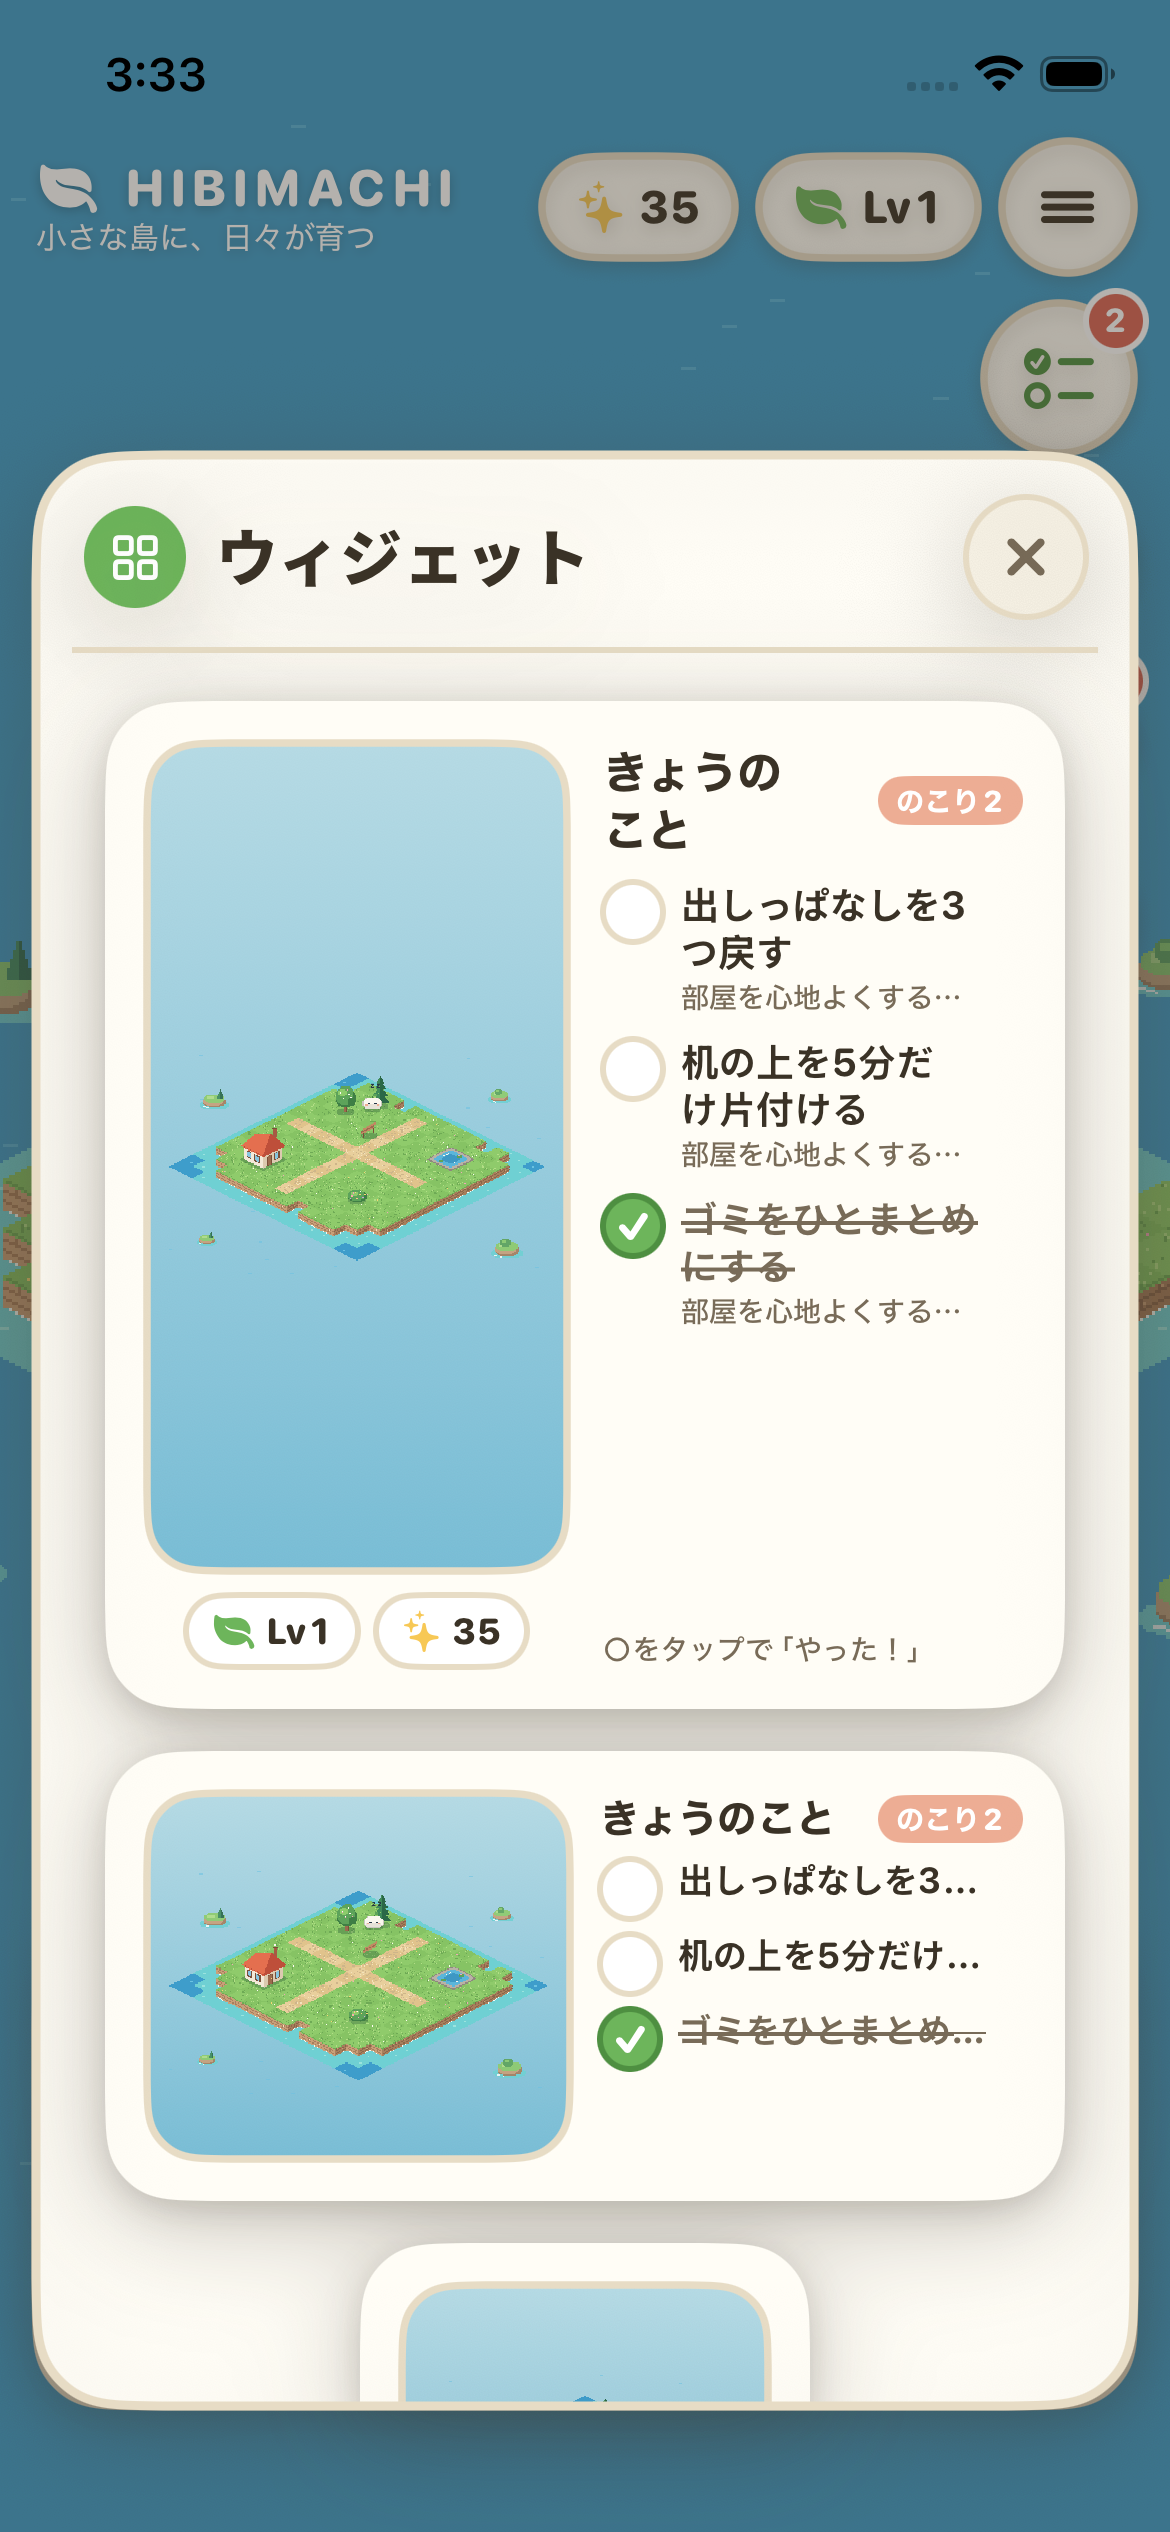
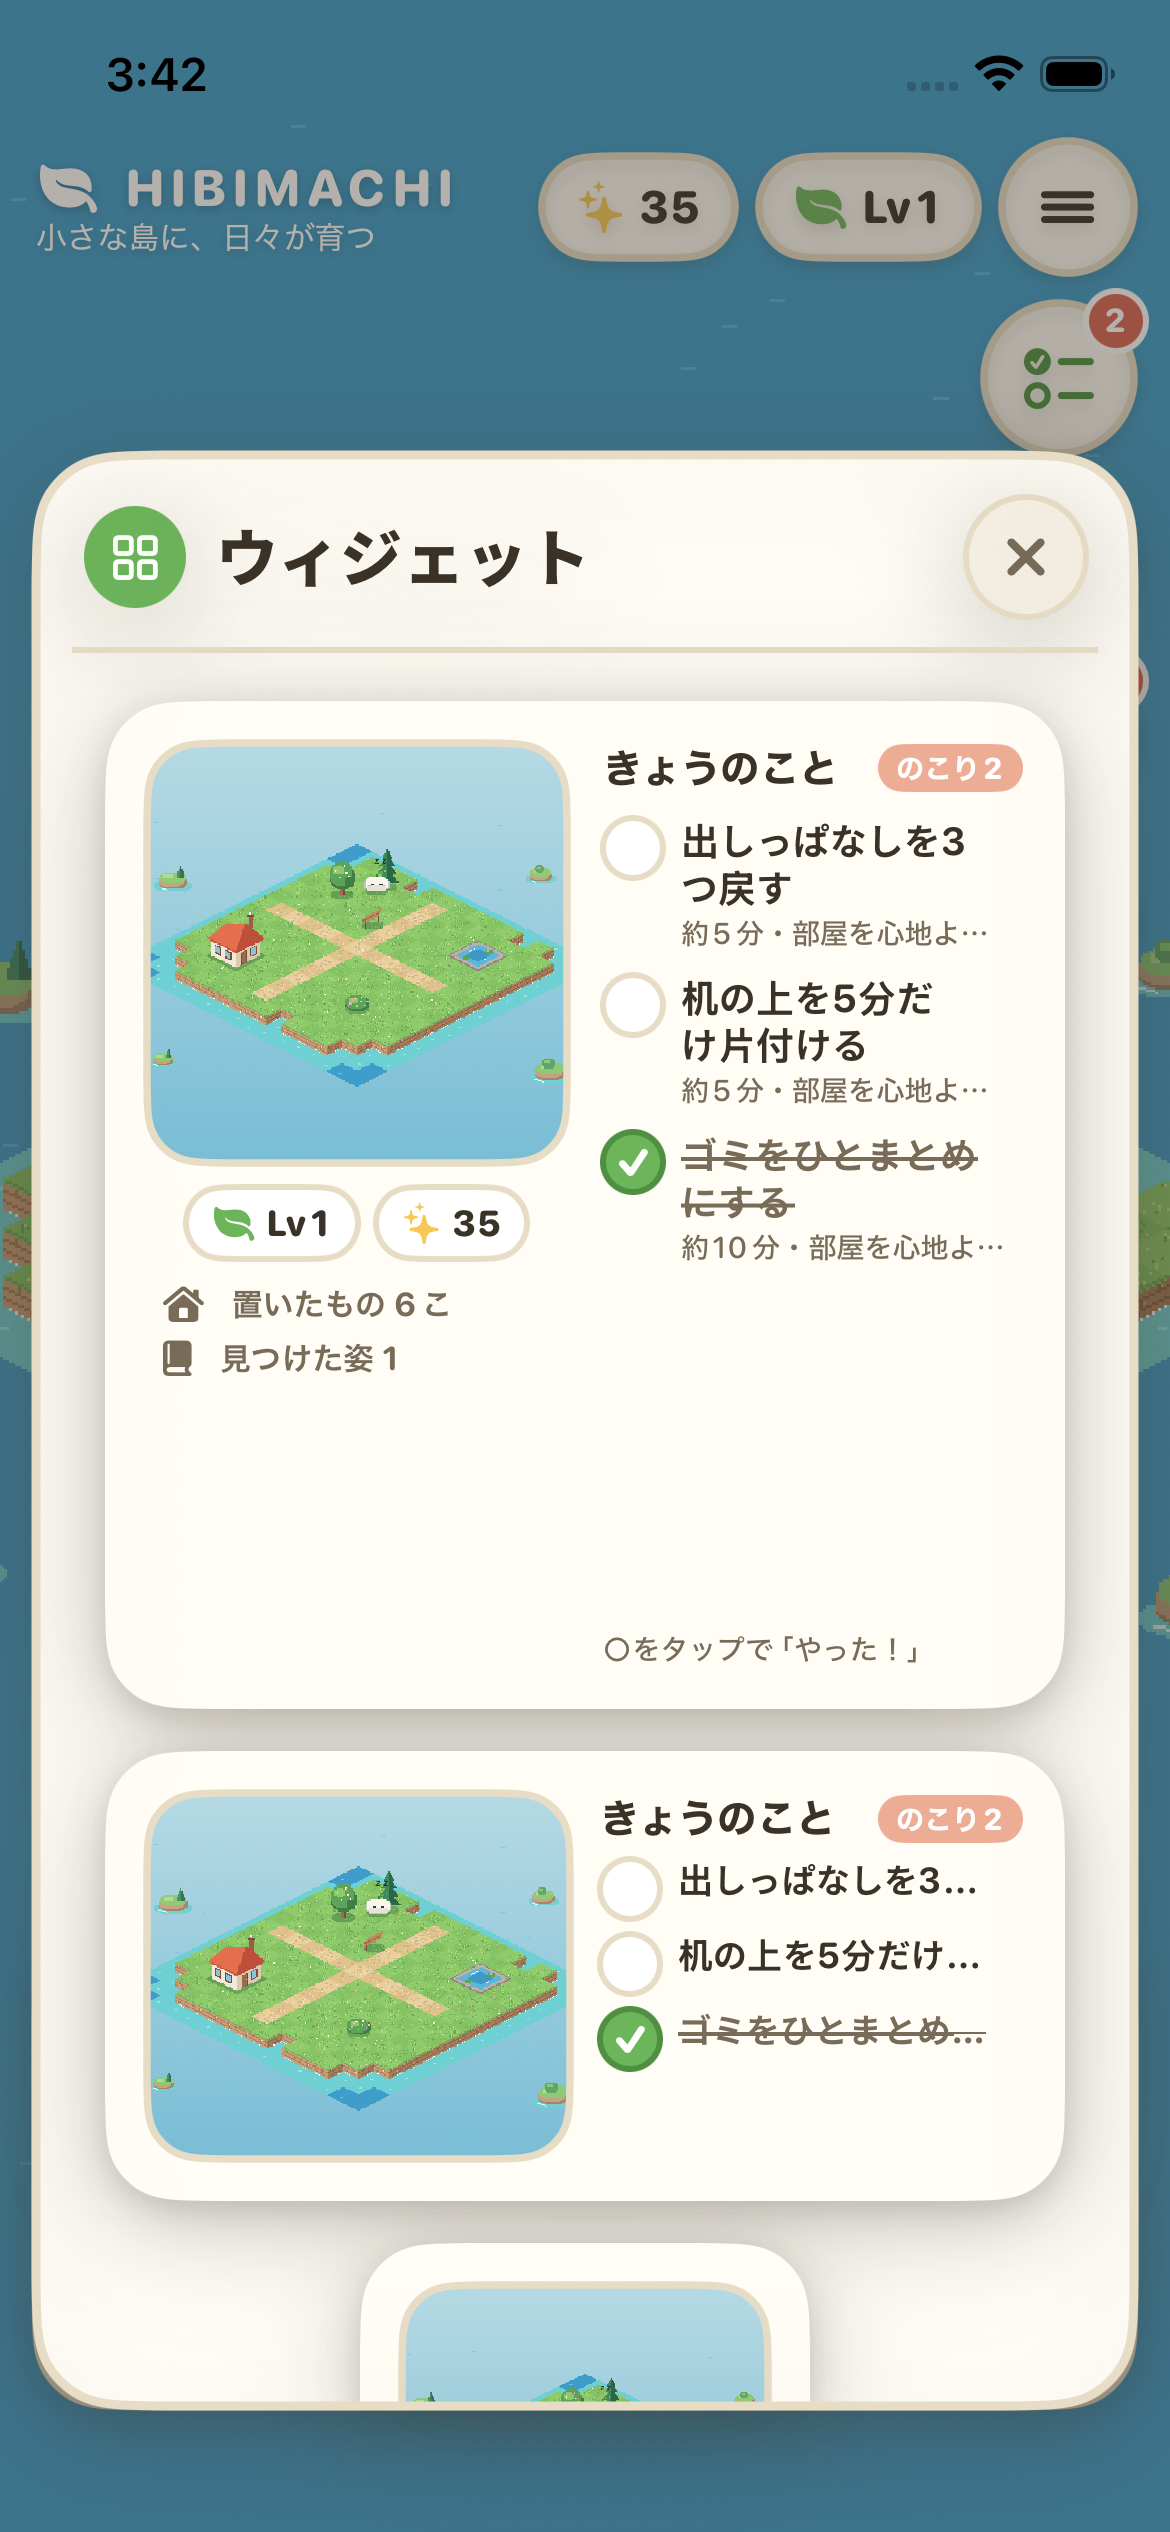
docs: widget screenshot after the large-size layout fix
Claude-Session: https://claude.ai/code/session_014YDTEdtpivYkAXvRgEfhQ4

Changed region(s): [[0.1231, 0.2808, 0.8923, 0.6552], [0.1231, 0.7176, 0.4923, 0.8424], [0.4615, 0.936, 0.5231, 0.9672]]

diff --git a/reports/2026-10-26-game-ui-and-widget.md b/reports/2026-10-26-game-ui-and-widget.md
@@ -10,7 +10,7 @@
 3. `584d664` ウィジェット拡張 `HibimachiWidgetExtension`（小・中・大）、App Intent による達成、保存先を App Group へ移動、島の絵の書き出し、アプリ内のデバッグ用プレビューとUIテスト。
 4. `1fefe13` ADR-0006、DATA-MODEL、TODO。
 5. `13948e2` 修正: 島の絵の切り抜きで型を取り違えていた（CIのiOSビルドで検出）。
-6. ウィジェット大サイズの見た目修正（島の枠を正方形にして拡大、置いたもの数・発見数を追加、見出しを1行に）。
+6. `7c2d01b` ウィジェット大サイズの見た目修正（島の枠を正方形にして拡大、置いたもの数・発見数を追加、見出しを1行に）。
 
 ## 設計の要点（ADR-0006）
 - 保存は App Group コンテナの `Hibimachi/world.json`。旧保存は1回だけ移動し、失敗したら旧フォルダを使い続ける。App Group が無いビルドでは従来の保存先。
@@ -24,7 +24,7 @@
 |---|---|
 | `swift test --package-path HibimachiCore`（Linux, Swift 6.3.3） | 104件 PASS（追加7件） |
 | format-check / lint（ローカル） | PASS |
-| Swift CI（head `13948e2`）: Linux / iOS build・app unit・UI test 6件 | success |
+| Swift CI（head `13948e2`、`ff52952`）: Linux / iOS build・app unit・UI test 6件 | success |
 | Demo video（head `13948e2`） | success |
 | UI test `testWidgetPreviewShowsIslandAndTodaysQuests` | PASS（目標作成→1件達成→プレビューで「のこり2」と表示） |
 | `0beca27` 時点の CI（UI置き換えのみ） | success。デモ動画をユーザーへ送付 |
